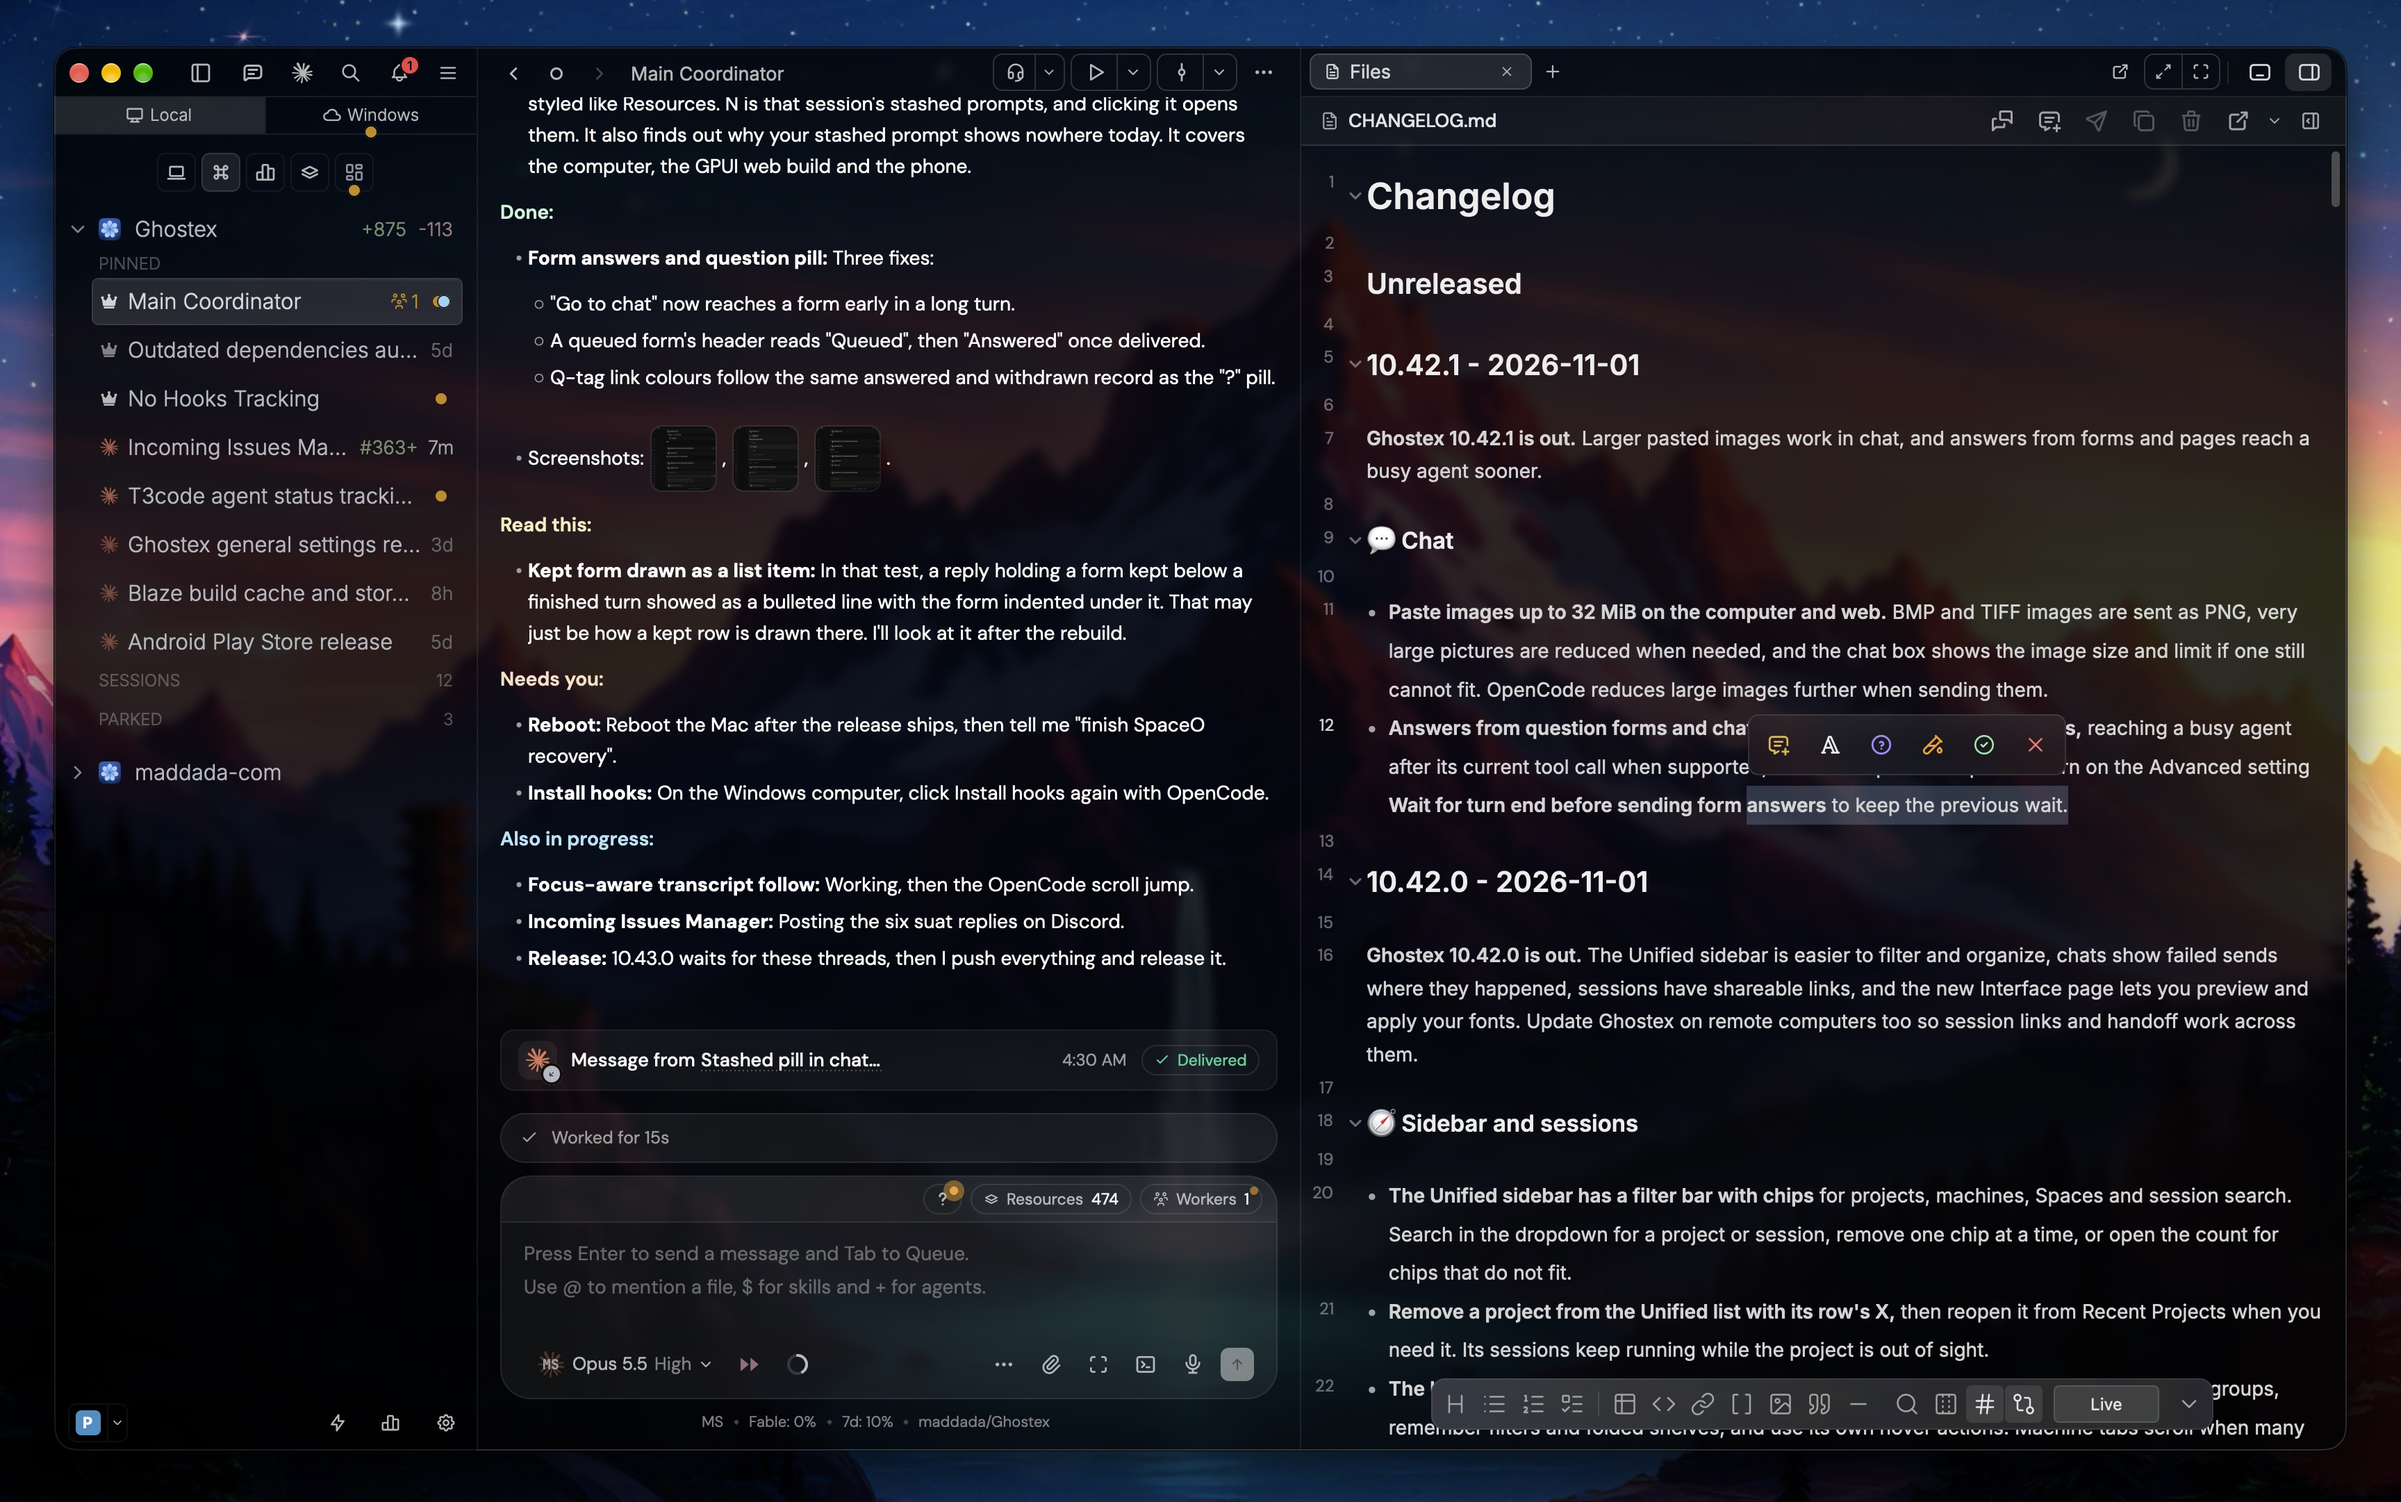
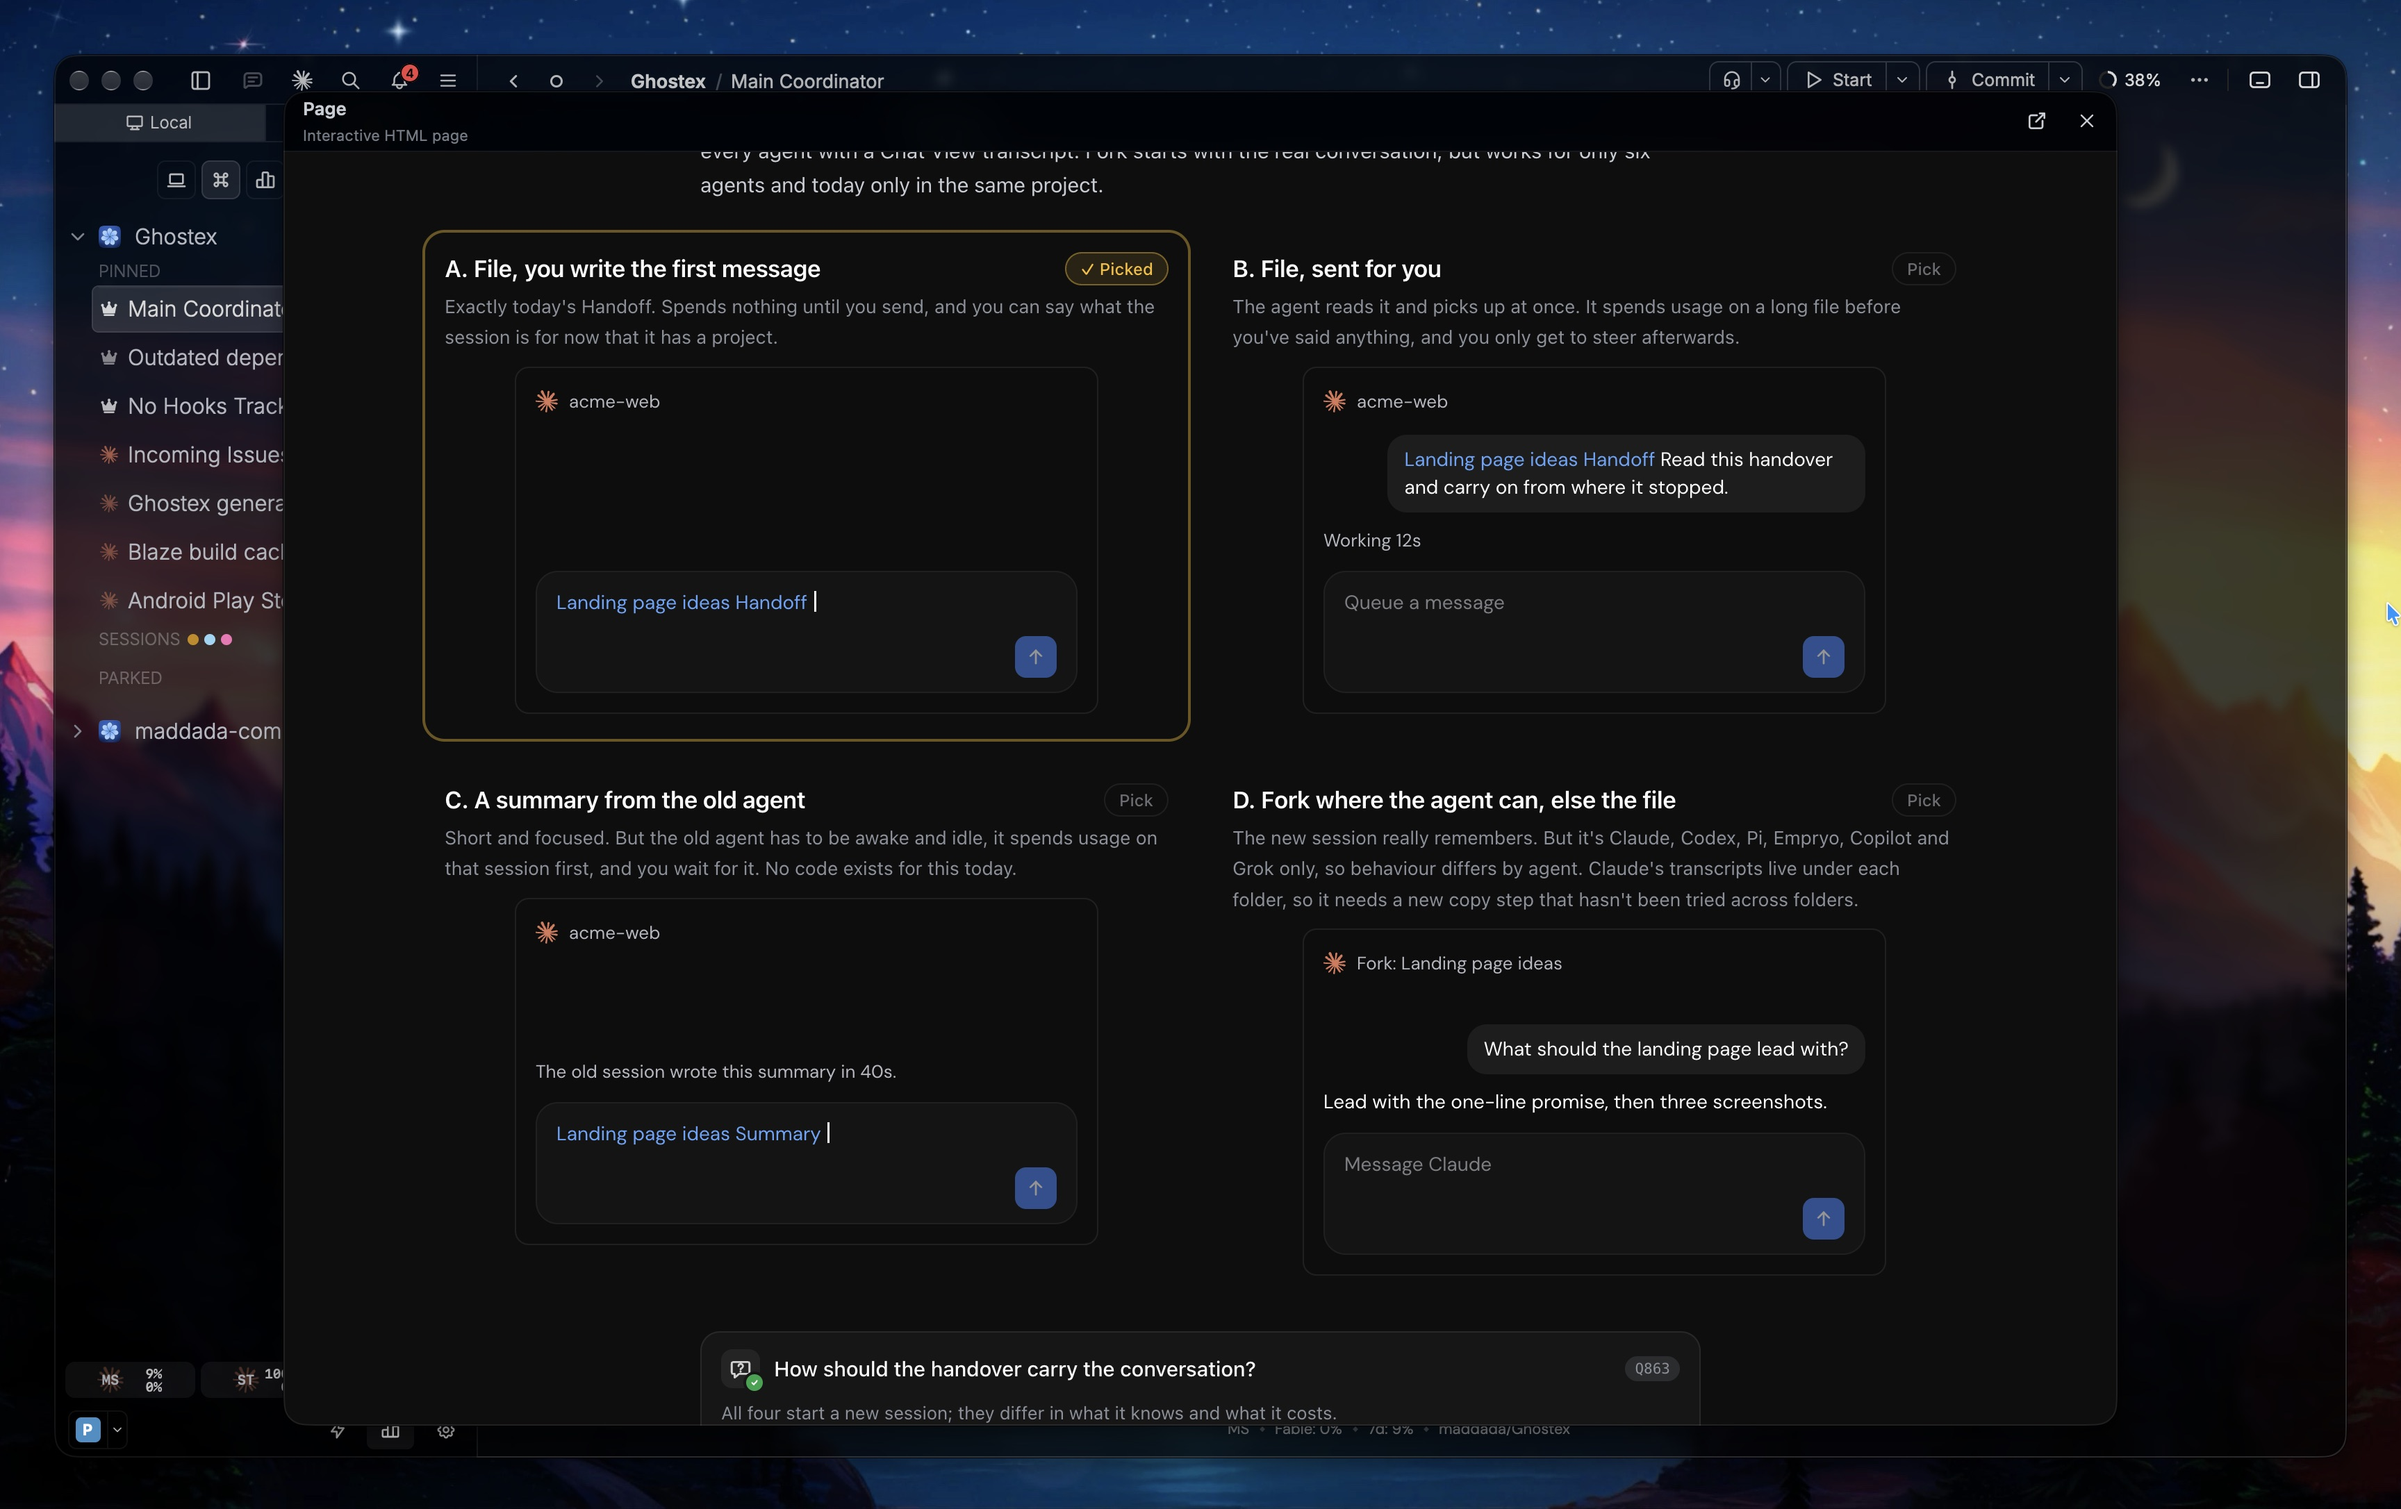
docs(readme): hero images 1, 2, 4, 5 and 6 in order

diff --git a/README.md b/README.md
@@ -27,25 +27,33 @@
 </p>
 
 <p align="center">
-  <a href="media/readme/gx-hero-2.webp">
+  <a href="media/readme/gx-hero-2.jpeg">
     <picture>
-          <img width="960" src="media/readme/gx-hero-4.jpeg" />
+      <img width="960" src="media/readme/gx-hero-2.jpeg" />
     </picture>
   </a>
 </p>
 
 <p align="center">
-  <a href="media/readme/gx-hero-5.webp">
+  <a href="media/readme/gx-hero-4.webp">
     <picture>
-          <img width="960" src="media/readme/gx-hero-5.jpeg" />
+      <img width="960" src="media/readme/gx-hero-4.webp" />
     </picture>
   </a>
 </p>
 
 <p align="center">
-  <a href="media/readme/gx-hero-3.webp">
+  <a href="media/readme/gx-hero-5.jpeg">
     <picture>
-      <img width="960" src="media/readme/gx-hero-3.webp" />
+      <img width="960" src="media/readme/gx-hero-5.jpeg" />
+    </picture>
+  </a>
+</p>
+
+<p align="center">
+  <a href="media/readme/gx-hero-6.jpeg">
+    <picture>
+      <img width="960" src="media/readme/gx-hero-6.jpeg" />
     </picture>
   </a>
 </p>
